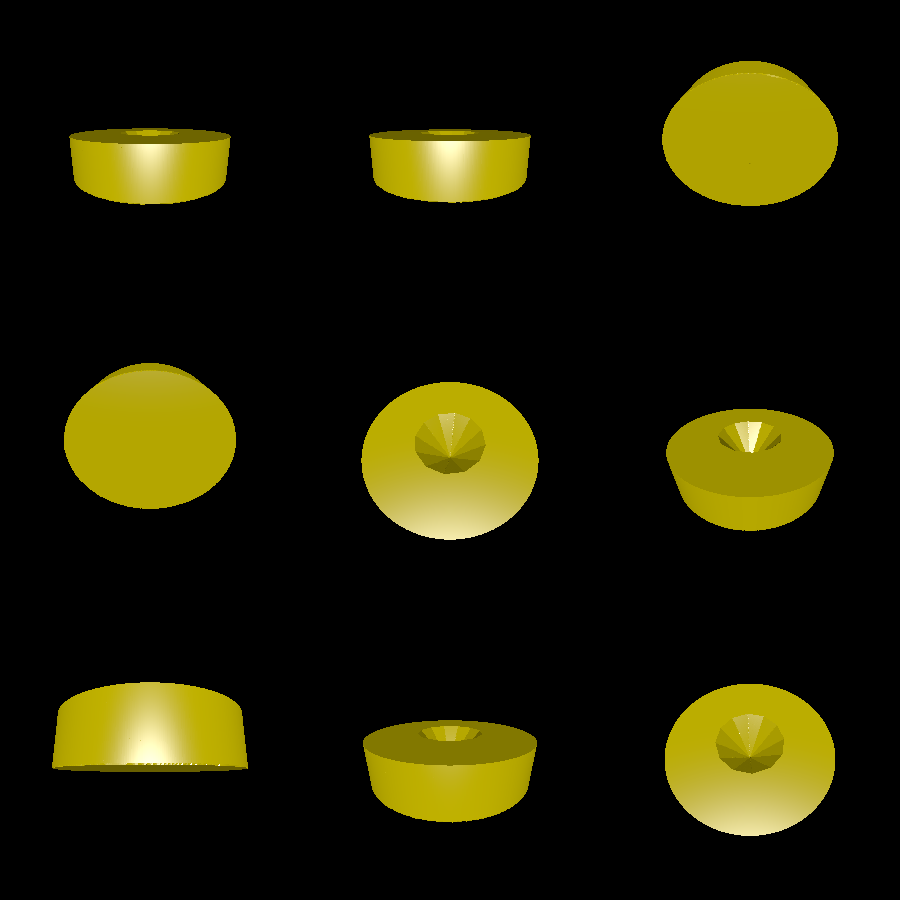
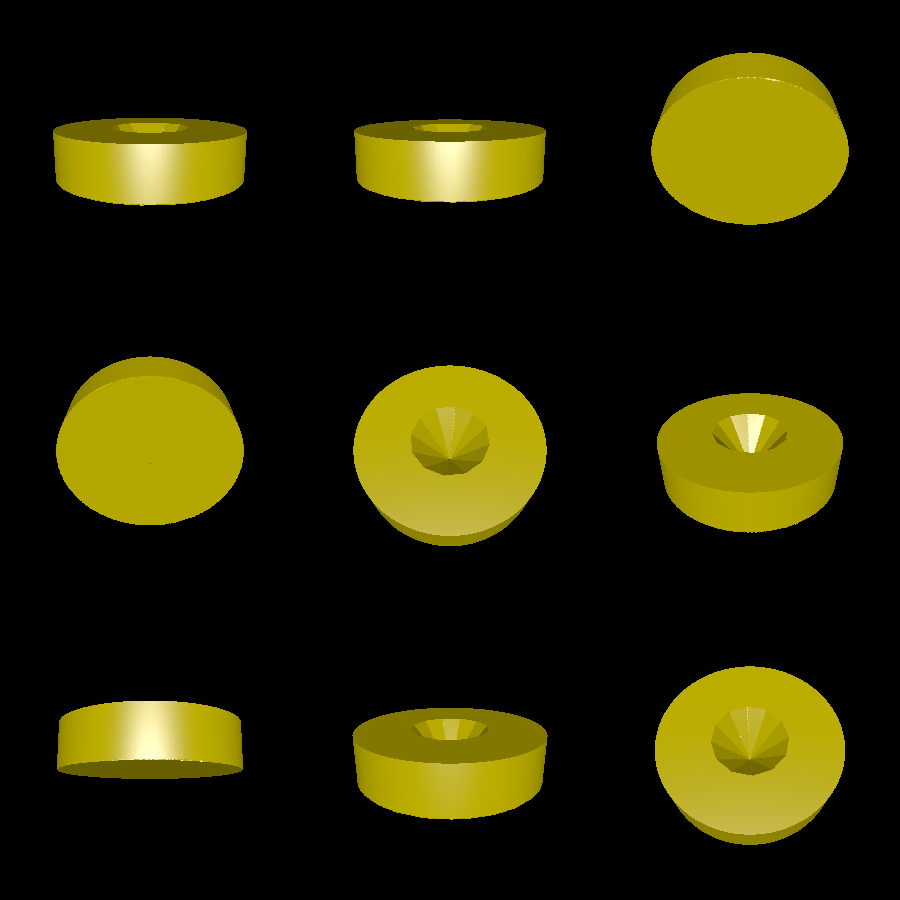
diamond: cleanup meshes + add README

diff --git a/examples/decoration/diamond/main.go b/examples/decoration/diamond/main.go
@@ -96,8 +96,12 @@ func CreateStand(diamond *model3d.Mesh) {
 		Negative: solid,
 	}
 	mesh := model3d.MarchingCubesSearch(standSolid, 0.01, 8)
+	mesh = mesh.EliminateCoplanar(1e-5)
 	mesh = mesh.FlattenBase(0)
 
+	log.Println("Saving stand mesh...")
 	mesh.SaveGroupedSTL("stand.stl")
+
+	log.Println("Rendering stand mesh...")
 	render3d.SaveRandomGrid("rendering_stand.png", mesh, 3, 3, 300, nil)
 }

diff --git a/examples/decoration/diamond/README.md b/examples/decoration/diamond/README.md
@@ -1,0 +1,15 @@
+# diamond
+
+This example showcases the convex polytope API. In particular, a diamond shape is created as a system of linear inequalities, and then this system is turned into a mesh.
+
+As icing on the cake, we can turn the polytope into a Solid and cut it out of a circular stand. This stand must then be turned into a mesh with marching cubes, since it's not a convex polytope itself.
+
+# Renderings
+
+Here is the diamond:
+
+![Renderings](rendering.png)
+
+Here is the stand:
+
+![Renderings of the stand](rendering_stand.png)
